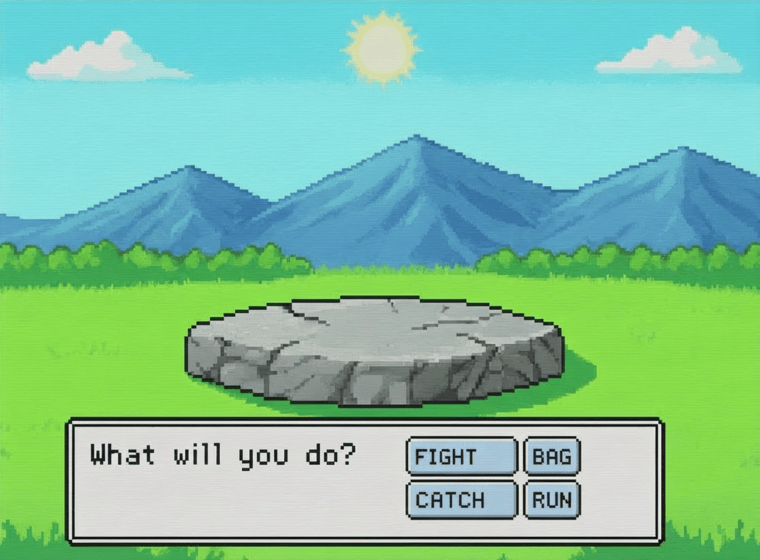
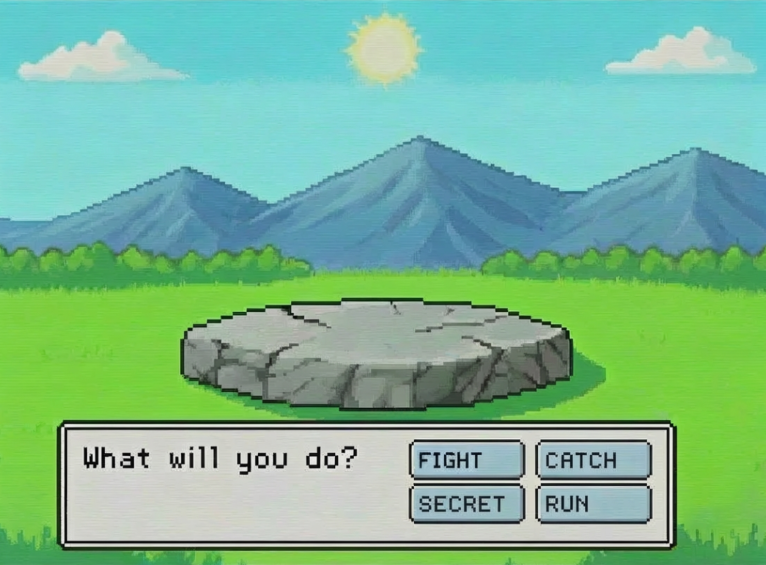
Papildināta ķeršana un pievienošana inventory

diff --git a/src/poke/Pokedatnis.java b/src/poke/Pokedatnis.java
@@ -25,14 +25,14 @@ import javax.swing.WindowConstants;
 import main.GamePanel;
 /*	NAV PIEVINOTS CATCH OPCIJA, VAJAG SALABOT POKEDEX, FIGHT, STORAGE(ARRAYLIST UN ATTELI)*/
 public class Pokedatnis {
-	static ArrayList<String> pokemoni = new ArrayList<String>();
+	public static ArrayList<Object> poki = new ArrayList<>();
 	private static JFrame main = new JFrame();
 	public static GamePanel  gamePanel = new GamePanel();
 	public static JFrame kust = new JFrame();
 	static boolean reize = true;
 	private static int []PBsk= {5};
 	private static int []MBsk= {2};
-	private static int []UBsk= {1};
+	private static int []UBsk= {100};
 	private static JLabel PokeballSk = new JLabel();
 	private static JLabel MediumballSk = new JLabel();
 	private static JLabel UltraballSk = new JLabel();
@@ -100,6 +100,7 @@ public class Pokedatnis {
 		Pokedex.setContentAreaFilled(false);
 		Pokedex.setBorderPainted(false);
 		main.add(Pokedex);
+		
 		String[] name = {"Squirtle", "Wartortle", "Blastoise", "Lickitung", "Lickylicky", "Elekid", "Elecabuzz", "Electivire"};
 		String[] hp = {"44","59","79","90","110","45","65","75"};
 		String[] atk = {"48","63","83","55","85","63","83","123"};
@@ -222,8 +223,46 @@ public class Pokedatnis {
 			ImageIcon inv = new ImageIcon("bildes/Inventoyy.png");
 			JLabel INV = new JLabel(inv);
 			INV.setSize(751, 560);
-			panel.add(INV);
-			
+	
+			if(poki.size()>=0) {
+				String b = "";
+				int reize=0;
+				int col=0;
+				int[][] cord = new int [8][2];
+				for(int x=0; x<cord.length; x++) {
+					for(int y=0; y<cord[x].length; y++) {
+						if(x==0) cord[x][y] = 227+(reize*88);
+						if(x==1) cord[x][y] = 162+(reize*84);
+						System.out.println(cord[x][y]);
+						reize++;
+					}
+				}
+				reize=0;
+				for(int i=1; i<poki.size(); i++) {
+					String nosaukums = ((Pokemons)poki.get(i-1)).getVards();
+					switch(nosaukums) {
+					case "Squirtle":
+						b="s.png";
+						break;
+					case "Elekid":
+						b="e.png";
+						break;
+						
+					}
+					JLabel pirm = pokedex(b);
+					//88 84
+					pirm.setSize(61,60);
+					
+					pirm.setLocation(227+(col*88),162+(reize*84));
+					col++;
+					if(col==3) col=0;
+					if(i%4==0) reize++;
+					INV.add(pirm);
+				}
+			}
+			panel.add(INV); 
+			panel.revalidate();
+			panel.repaint();
 		});
 		
 		
@@ -518,10 +557,26 @@ public class Pokedatnis {
             Pokedatnis.kust.setVisible(false);
             Pokedatnis.kust.dispose();
         }
-		if(iespeja>=0) {
+		if(iespeja==0) {
 			switch(nodots) {
-				
+			case "Squirtle112.png": 
+				poki.add(new UdensP(
+						"Water",
+						"Squirtle",
+						44,
+						48,
+						43));
+				break;
+			case "Elekid1.png":
+				poki.add(new UdensP(
+						"Electric",
+						"Elekid",
+						45,
+						63,
+						95));
+				break;
 			}
+			iespeja=-1;
         }else {
 			Random rand = new Random();
 			String []izvele = {"Squirtle112.png", "licka.png", "Elekid1.png","Int.png"};
@@ -541,28 +596,41 @@ public class Pokedatnis {
 	        logs.setLocation(32, 109);
 	        logs.setOpaque(false);
 		    main.add(logs);
-		    
+		    //DONE
 		    JButton kert = new JButton();
-		    kert.setSize(50,50);
-		    kert.setLocation(100,150);
+		    kert.setSize(109,38);
+		    kert.setLocation(530,442);
+		    kert.setOpaque(false);
+		    kert.setContentAreaFilled(false);
+		    kert.setBorderPainted(false);
 		    
-		    //done
+		    //DONE
 		    JButton begt = new JButton();
-		    begt.setSize(50,50);
-		    begt.setLocation(150,100);
+		    begt.setSize(109,38);
+		    begt.setLocation(529, 487);
+		    begt.setOpaque(false);
+		    begt.setContentAreaFilled(false);
+		    begt.setBorderPainted(false);
 		    
-		    
+		    //NOT DONE 
 		    JButton fight = new JButton();
-		    fight.setSize(50,50);
-		    fight.setLocation(150,150);
+		    fight.setSize(109,38);
+		    fight.setLocation(409,442);
+		    fight.setOpaque(false);
+		    fight.setContentAreaFilled(false);
+		    fight.setBorderPainted(false);
+		   
+		    
+		    JButton secret = new JButton();
+		    secret.setSize(109,38);
+		    secret.setLocation(409, 487);
+		    
 		    
 		    JLabel bilde = pokedex(png);
 		    if(png == "Int.png") {
 			    bilde.setSize(200, 400);
 			    bilde.setLocation(250,0);
-		    
 		    }else {
-		    	
 			    bilde.setSize(200, 200);
 			    bilde.setLocation(270,170);
 		    }
@@ -571,9 +639,7 @@ public class Pokedatnis {
 		    main.revalidate();
 	        main.repaint();
 		    
-		    /*JButton bag = new JButton();
-		    logs.add(inv);*/
-		     
+		    logs.add(secret);
 	        logs.add(begt);
 		    logs.add(kert);
 		    logs.add(fight);
@@ -584,7 +650,7 @@ public class Pokedatnis {
 		    	logs.revalidate();
 				logs.repaint();
 				
-			    JLabel POpc = new JLabel(new ImageIcon("bildes/pokedihss.png"));
+			    JLabel POpc = new JLabel(new ImageIcon("bildes/Useitem.png"));
 			    POpc.setSize(751, 560);
 			    
 			    JButton p = new JButton();
@@ -638,14 +704,12 @@ public class Pokedatnis {
 						main.revalidate();
 						main.repaint();
 						iespeja=rand.nextInt(3);
+						main.revalidate();
+						main.repaint();
+						iespeja=rand.nextInt(4);
 						logs.removeAll();
-				    	logs.revalidate();
-						logs.repaint();
-						kert.setSize(50,50);
-					    kert.setLocation(100,150);
-						logs.add(kert);
-						logs.add(begt);
-						logs.add(fight);
+				    	main.remove(logs);
+				    	triggerRandomPanel(png);
 					}
 				});
 				u.addActionListener(ev -> {
@@ -655,14 +719,12 @@ public class Pokedatnis {
 						main.revalidate();
 						main.repaint();
 						iespeja=rand.nextInt(2);
+						main.revalidate();
+						main.repaint();
+						iespeja=rand.nextInt(4);
 						logs.removeAll();
-				    	logs.revalidate();
-						logs.repaint();
-						kert.setSize(50,50);
-					    kert.setLocation(100,150);
-						logs.add(kert);
-						logs.add(begt);
-						logs.add(fight);
+				    	main.remove(logs);
+				    	triggerRandomPanel(png);
 					}
 				});
 				

diff --git a/src/poke/UdensP.java b/src/poke/UdensP.java
@@ -2,27 +2,36 @@ package poke;
 
 
 public class UdensP extends Pokemons {
-    private String watershield, bubbleBeam, hydroPump;
-    public UdensP(String name, int HP, int attackPower, int speed) {
+    private String Uelements, watershield, bubbleBeam, hydroPump;
+    public UdensP(String Uelements, String name, int HP, int attackPower, int speed) {
         super(name, HP, attackPower, speed);
+        this.Uelements = Uelements;
     }
 
-    @Override
+    /*@Override
     public void attack(Pokemons opponent) {
-        int damage = this.attackPower + 3; 
-        System.out.println(name + " uses a water attack against " + opponent.getVards() + "!");
+    	
+        int damage = getATK()+3;
+        System.out.println(getVards() + " uses a water attack against " + opponent.getVards() + "!");
 
         opponent.health -= damage;
         if (opponent.health < 0) opponent.health = 0;
 
         System.out.println(opponent.getVards() + " loses " + damage + " HP! Remaining HP: " + opponent.getHP());
-    }
+    }*/
 
     @Override
     public void weakness() {
-        System.out.println(name + " is weak to Electric and Grass-type attacks!");
+        System.out.println(getVards() + " is weak to Electric and Grass-type attacks!");
+    }
+    
+    public String getElements() {
+        return Uelements;
     }
 
+    public void setElements(String elements) {
+        this.Uelements = elements;
+    }
     public String getHydroPump() {
         return hydroPump;
     }
@@ -46,4 +55,9 @@ public class UdensP extends Pokemons {
     public void setBubbleBeam(String bubbleBeam) {
         this.bubbleBeam = bubbleBeam;
     }
+
+	@Override
+	public void attack(Pokemons opponent) {
+		
+	}
 }

diff --git a/src/poke/ElektriskaisP.java b/src/poke/ElektriskaisP.java
@@ -1,13 +1,13 @@
 package poke;
 
 public class ElektriskaisP extends Pokemons {
-    private String elements, overcharge, speedBoost;
-    public ElektriskaisP(String elements, String name, int HP, int attackPower, int speed) {
+    private String Eelements, overcharge, speedBoost;
+    public ElektriskaisP(String Eelements, String name, int HP, int attackPower, int speed) {
         super(name, HP, attackPower, speed);
-        this.elements = elements;
+        this.Eelements = Eelements;
     }
 
-    @Override
+    /*@Override
     public void attack(Pokemons opponent) {
         int damage = this.attackPower + 5; 
         System.out.println(name + " uses static electricity against " + opponent.getVards() + "!");
@@ -21,14 +21,14 @@ public class ElektriskaisP extends Pokemons {
     @Override
     public void weakness() {
         System.out.println(name + " is weak to Ground-type attacks!");
-    }
+    }*/
 
     public String getElements() {
-        return elements;
+        return Eelements;
     }
 
     public void setElements(String elements) {
-        this.elements = elements;
+        this.Eelements = elements;
     }
 
     public String getSpeedBoost() {
@@ -46,5 +46,11 @@ public class ElektriskaisP extends Pokemons {
     public void setOvercharge(String overcharge) {
         this.overcharge = overcharge;
     }
+
+	@Override
+	public void attack(Pokemons opponent) {
+		// TODO Auto-generated method stub
+		
+	}
 
 }

diff --git a/src/poke/Pokemons.java b/src/poke/Pokemons.java
@@ -1,10 +1,10 @@
 package poke;
 
 public abstract class Pokemons {
-    protected String name;
-    protected int health;
-    protected int attackPower;
-    protected int speed;
+	private String name;
+    private int health;
+    private int attackPower;
+    private int speed;
 
     public Pokemons(String name, int HP, int attackPower, int speed) {
         this.name = name;
@@ -16,9 +16,29 @@ public abstract class Pokemons {
     public String getVards() {
         return name;
     }
+    public void setVards(String name) {
+    	this.name=name;
+    }
 
     public int getHP() {
         return health;
+    }
+    public void setHP(int HP) {
+    	health=HP;
+    }
+    
+    public int getATK() {
+        return attackPower;
+    }
+    public void setATK(int atk) {
+    	attackPower = atk;
+    }
+
+    public int getSPD() {
+        return speed;
+    }
+    public void setSPD(int SPD) {
+    	speed = SPD;
     }
 
     public void heal(int amount) {
